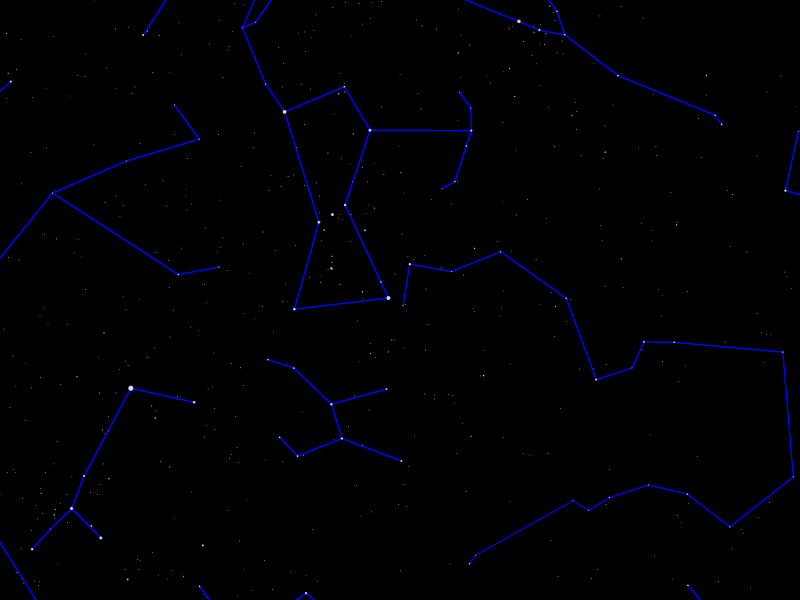
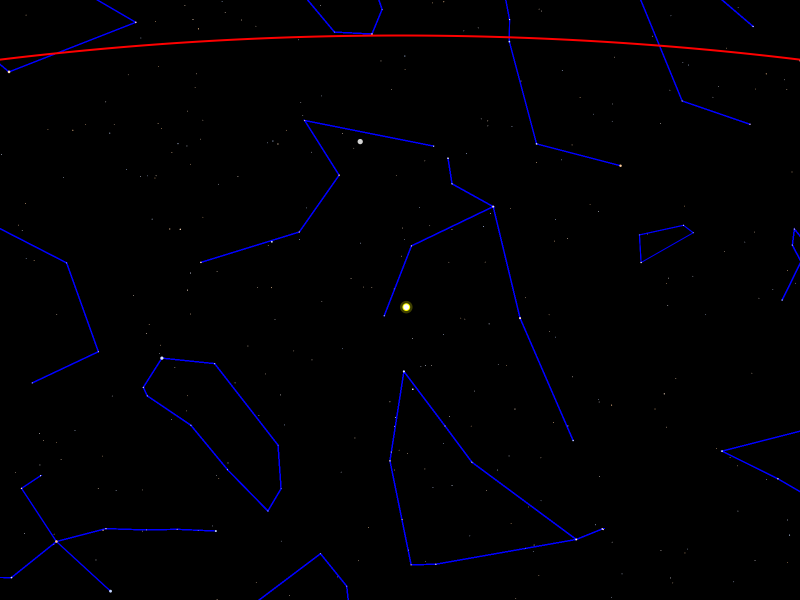
étape 8 soleil ok

diff --git a/src/ch/epfl/rigel/gui/SkyCanvasPainter.java b/src/ch/epfl/rigel/gui/SkyCanvasPainter.java
@@ -71,9 +71,9 @@ public final class SkyCanvasPainter {
         ctx.setFill(opaqueYellow);
         ctx.fillOval(transformedCoordinates[0]-2.2*trueRadius/2, transformedCoordinates[1]-2.2*trueRadius/2, 2.2*trueRadius, 2.2*trueRadius);
         ctx.setFill(yellow);
-        ctx.fillOval(transformedCoordinates[0]-2*trueRadius/2, transformedCoordinates[1]-2*trueRadius/2, 2*trueRadius, 2*trueRadius);
+        ctx.fillOval(transformedCoordinates[0]-(trueRadius+2)/2, transformedCoordinates[1]-(trueRadius+2)/2, (trueRadius+2), (trueRadius+2));
         ctx.setFill(white);
-        ctx.fillOval(transformedCoordinates[0]-radius/2, transformedCoordinates[1]-trueRadius/2, trueRadius, trueRadius);
+        ctx.fillOval(transformedCoordinates[0]-trueRadius/2, transformedCoordinates[1]-trueRadius/2, trueRadius, trueRadius);
     }
 
     public void drawMoon(ObservedSky sky, StereographicProjection projection, Transform planeToCanvas){

diff --git a/test/ch/epfl/rigel/gui/SkyCanvasPainterTest.java b/test/ch/epfl/rigel/gui/SkyCanvasPainterTest.java
@@ -46,7 +46,7 @@ public final class SkyCanvasPainterTest extends Application {
             GeographicCoordinates where =
                     GeographicCoordinates.ofDeg(6.57, 46.52);
             HorizontalCoordinates projCenter =
-                    HorizontalCoordinates.ofDeg(186, 35);
+                    HorizontalCoordinates.ofDeg(277, -23);
             StereographicProjection projection =
                     new StereographicProjection(projCenter);
             ObservedSky sky =
